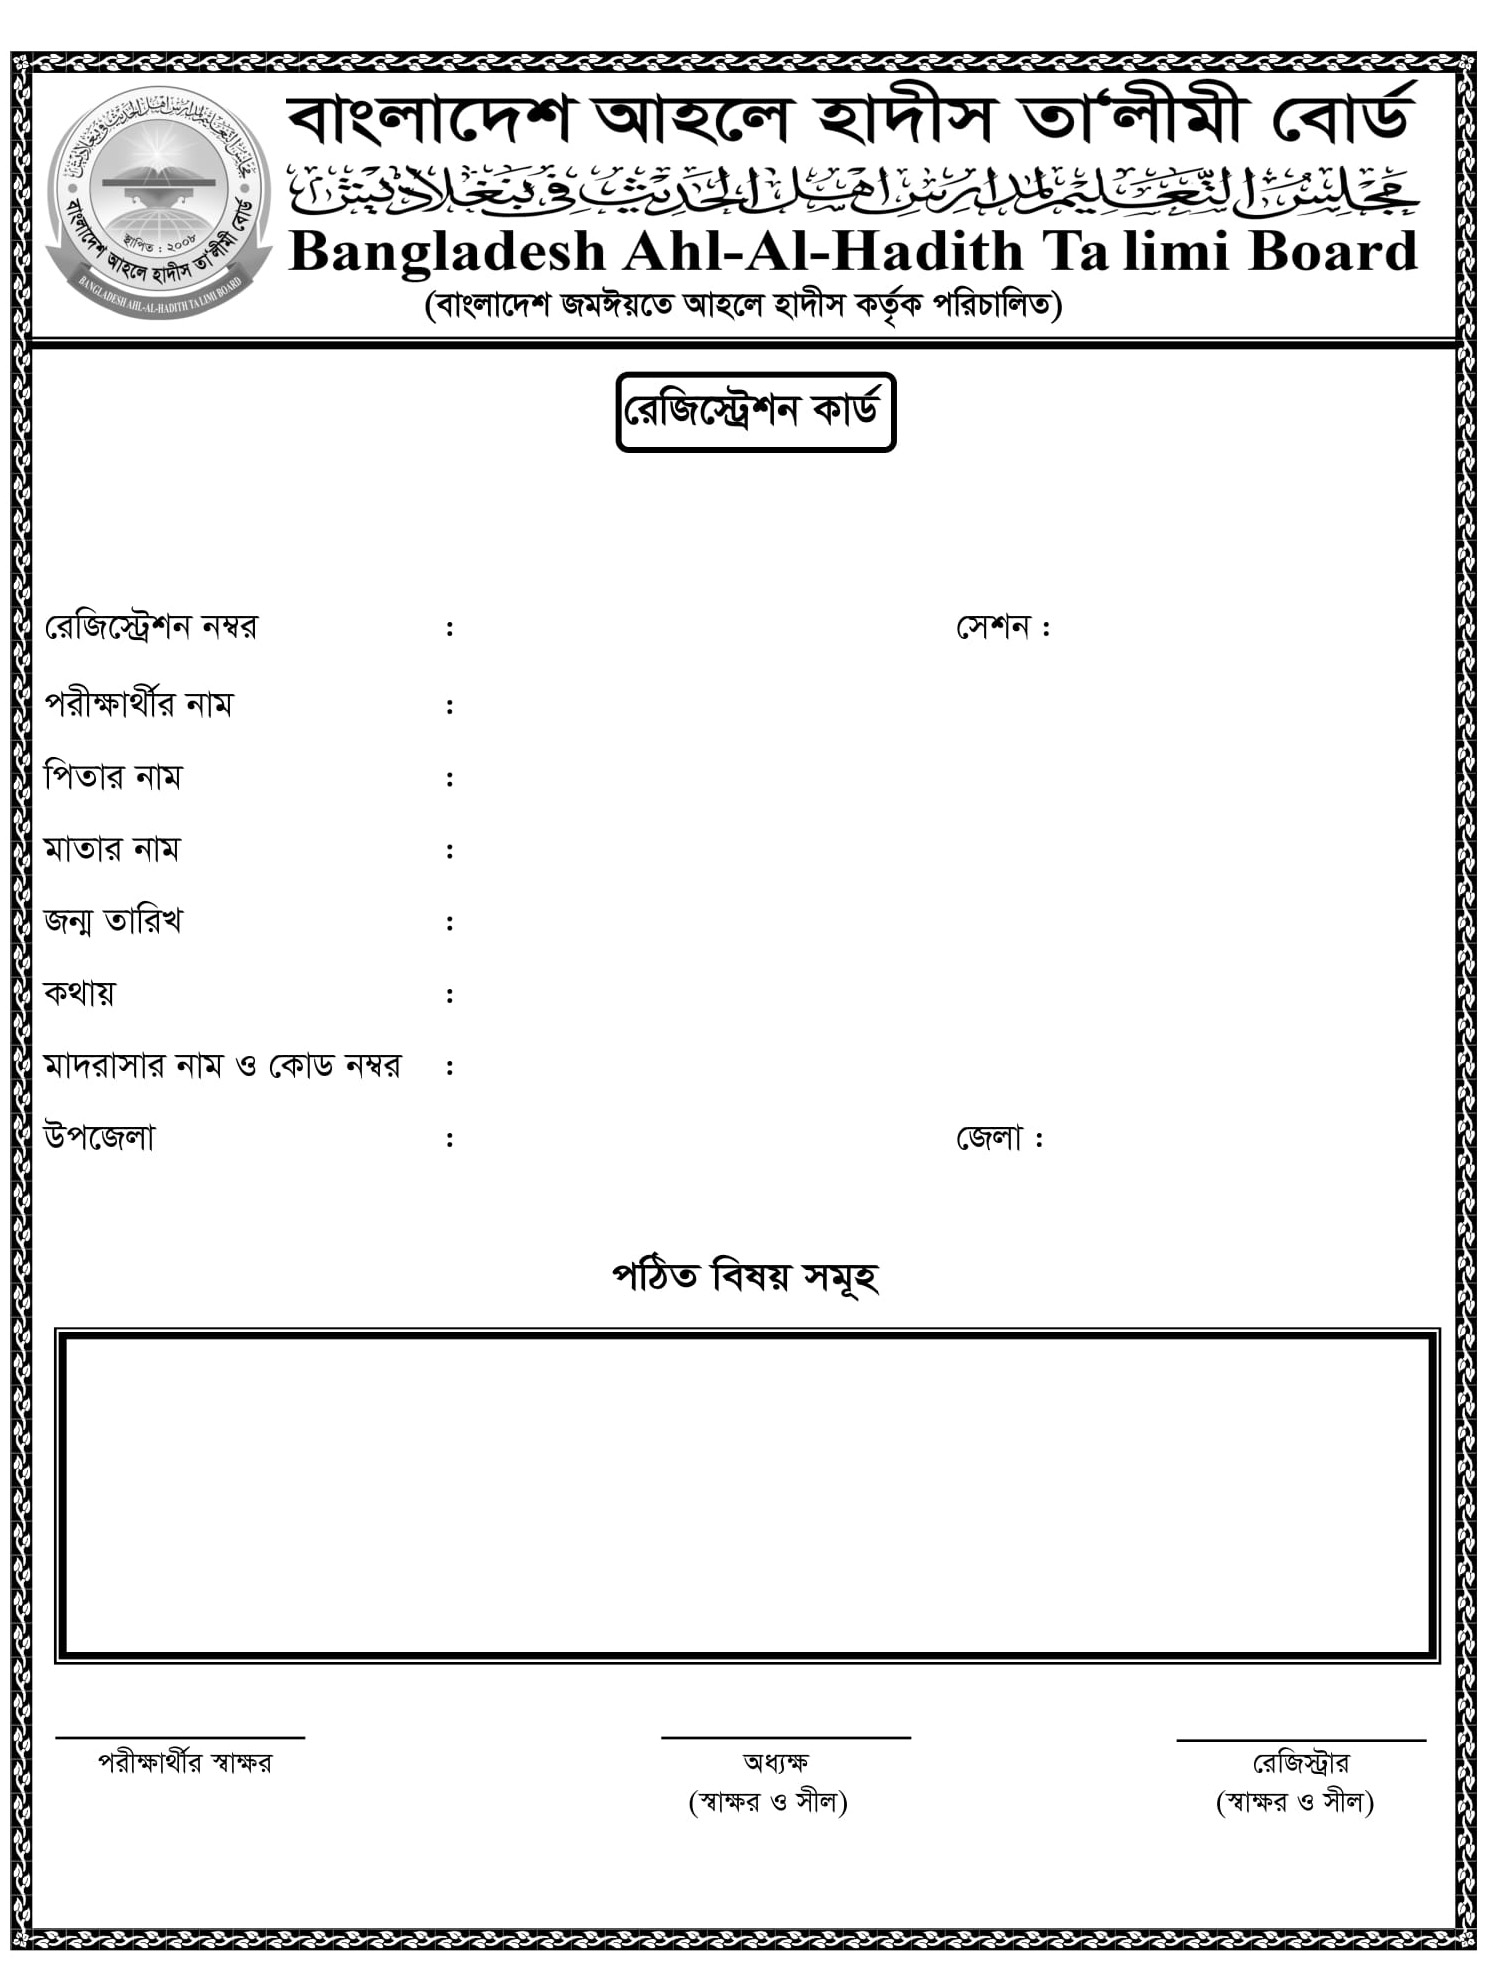
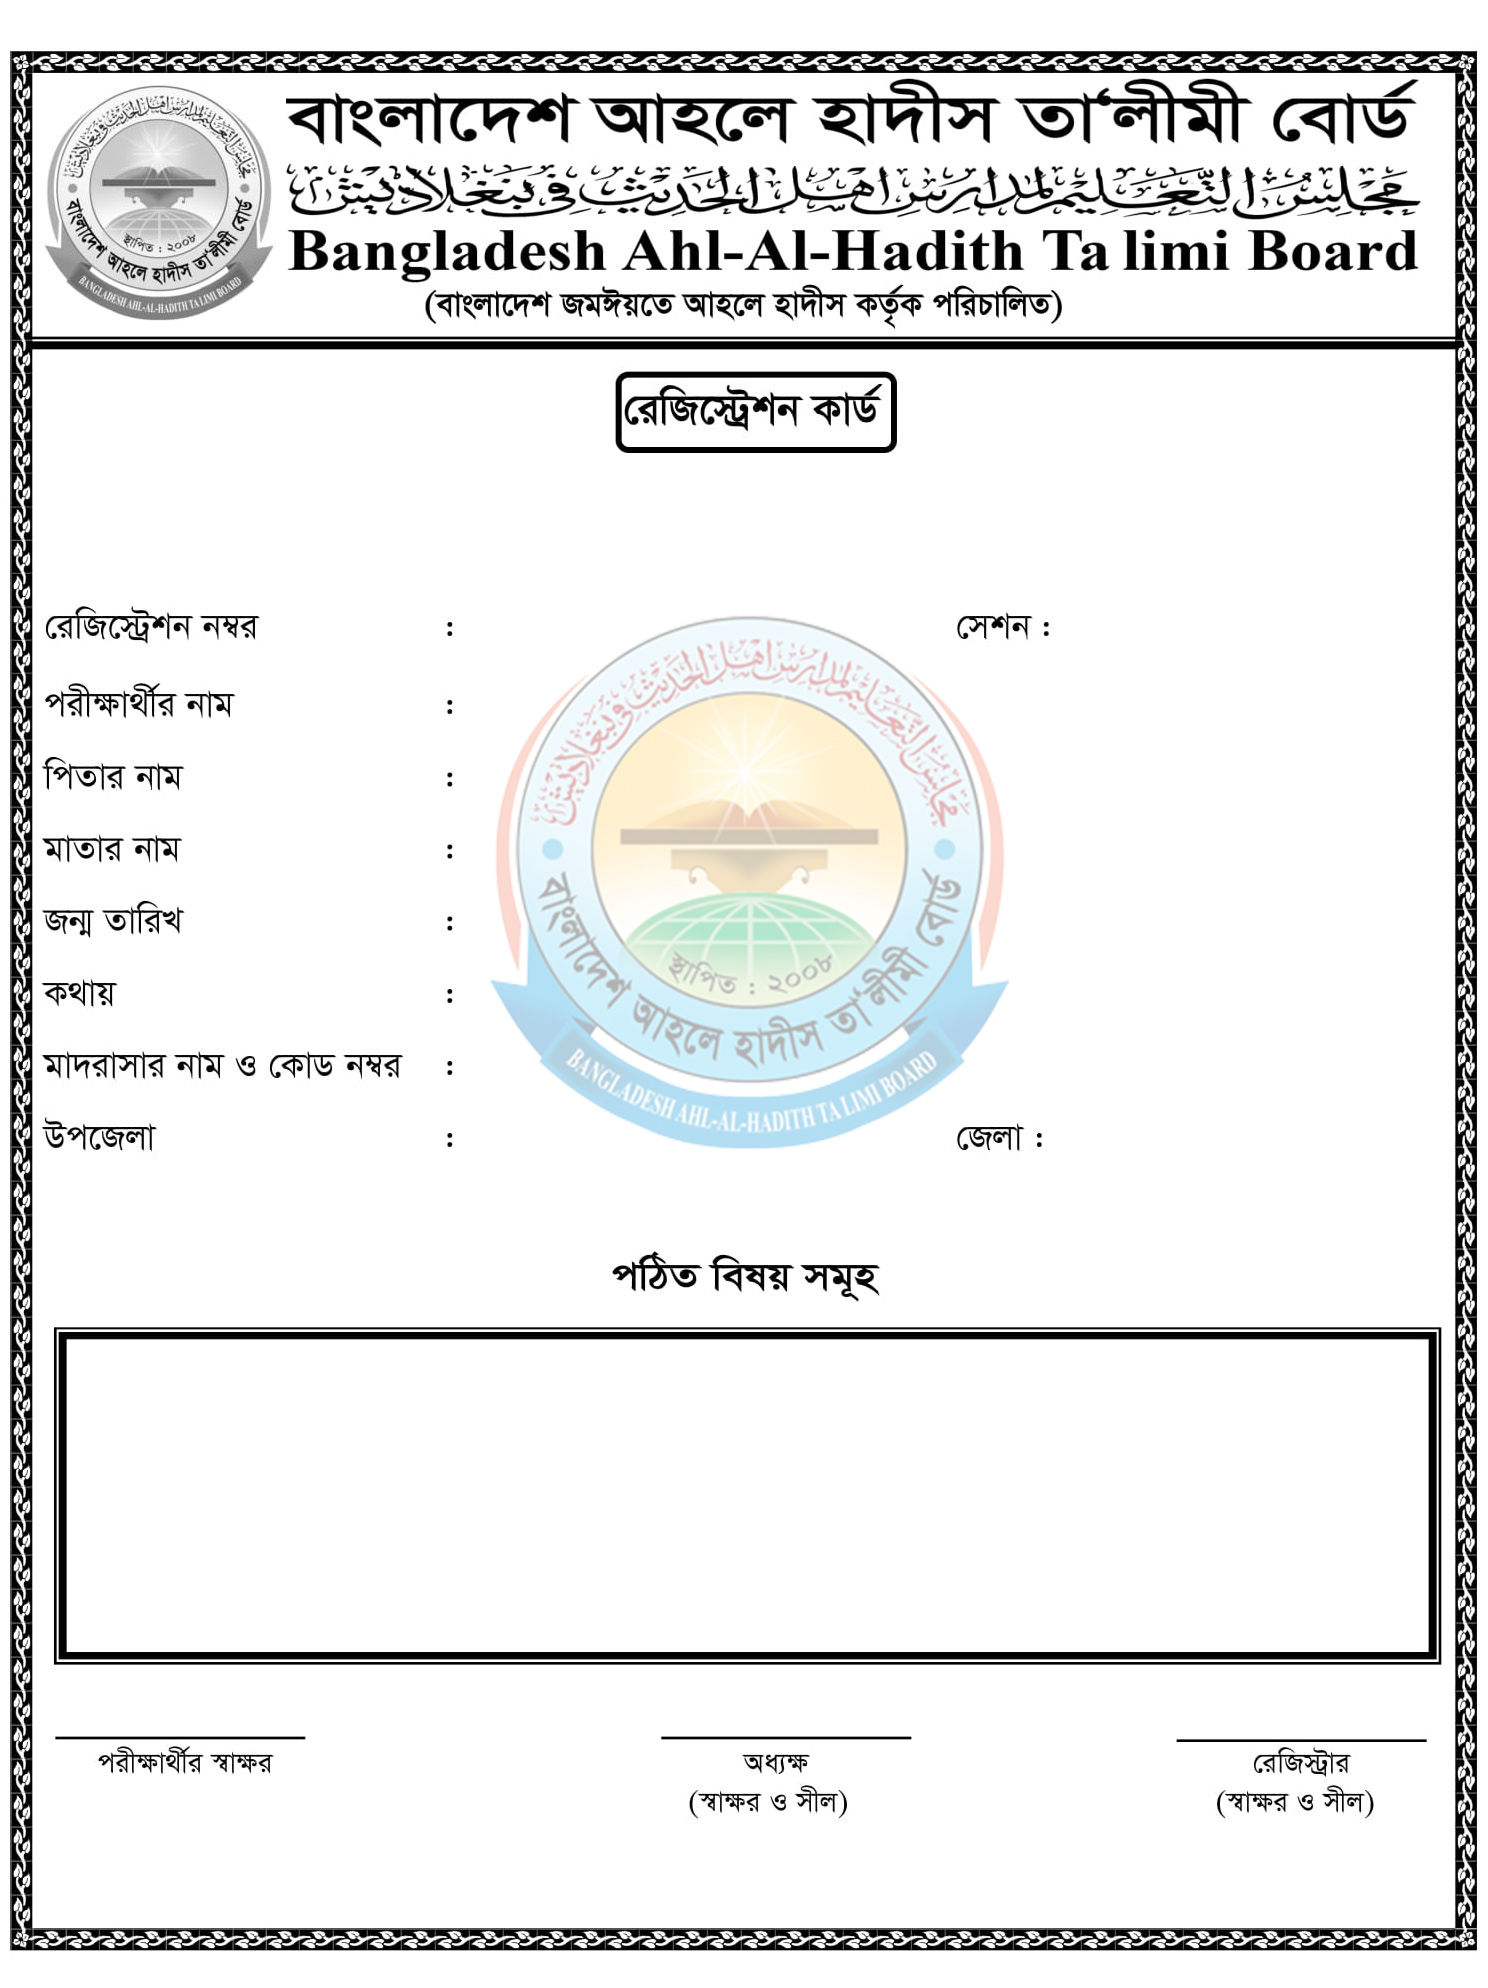
water mark added

Changed region(s): [[0.3091, 0.3119, 0.6801, 0.5926]]

diff --git a/style.css b/style.css
@@ -114,6 +114,6 @@
 .student-image{
     position: absolute;
     width: 184px;
-    left: 650px;
+    left: 728px;
     top: 461px;
 }
